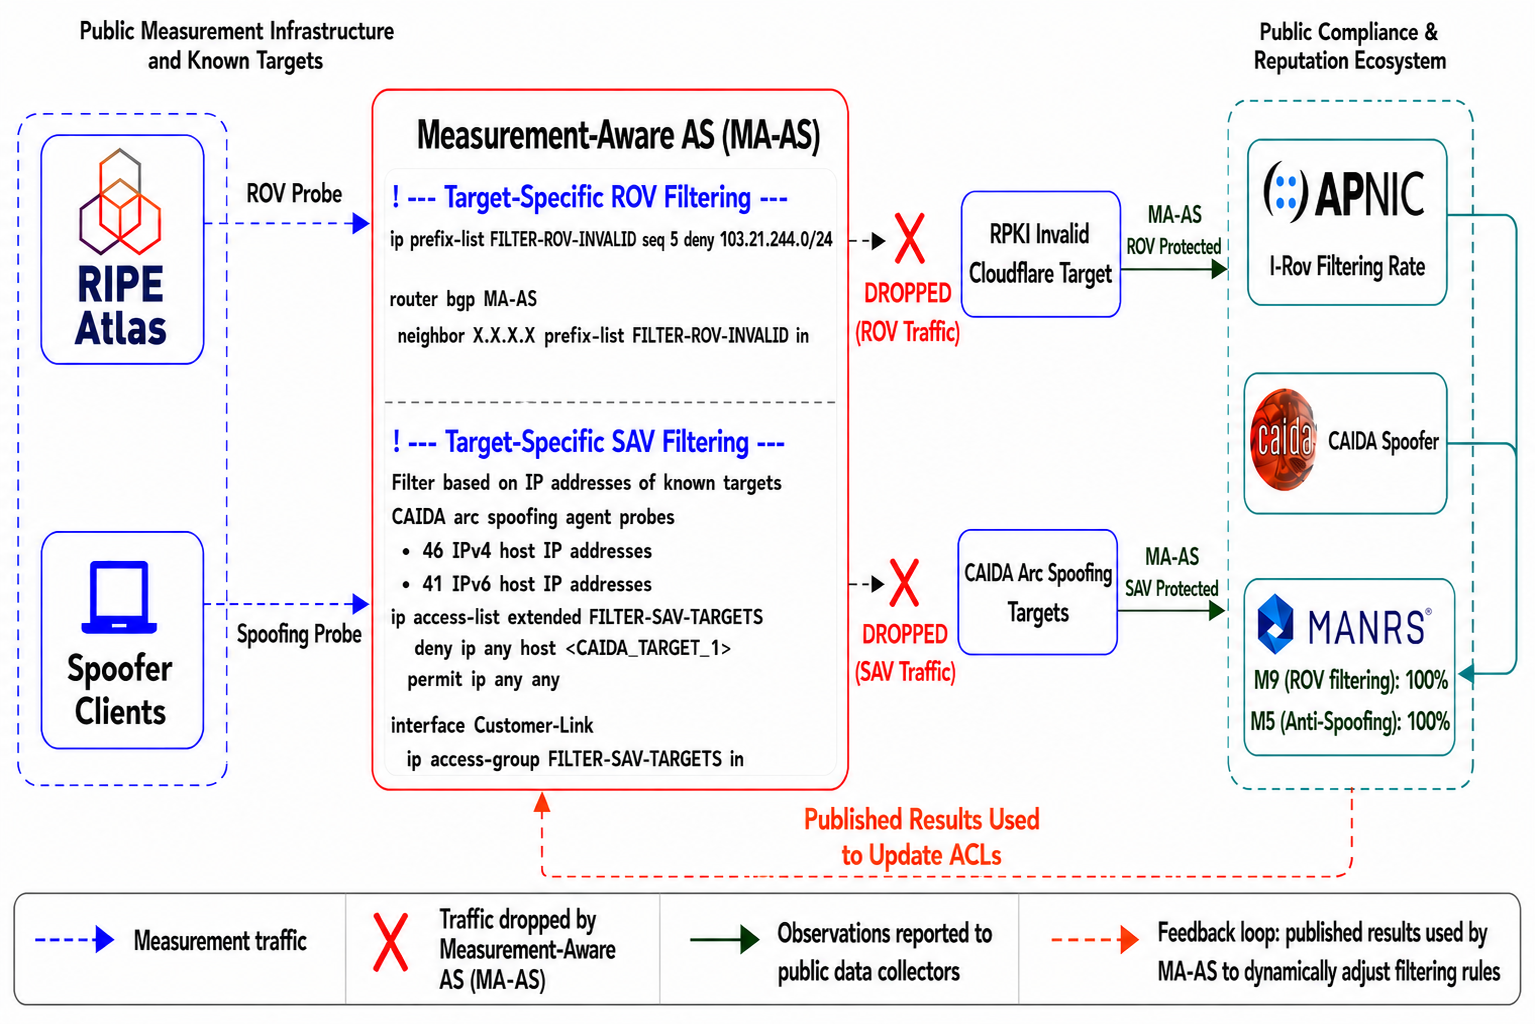
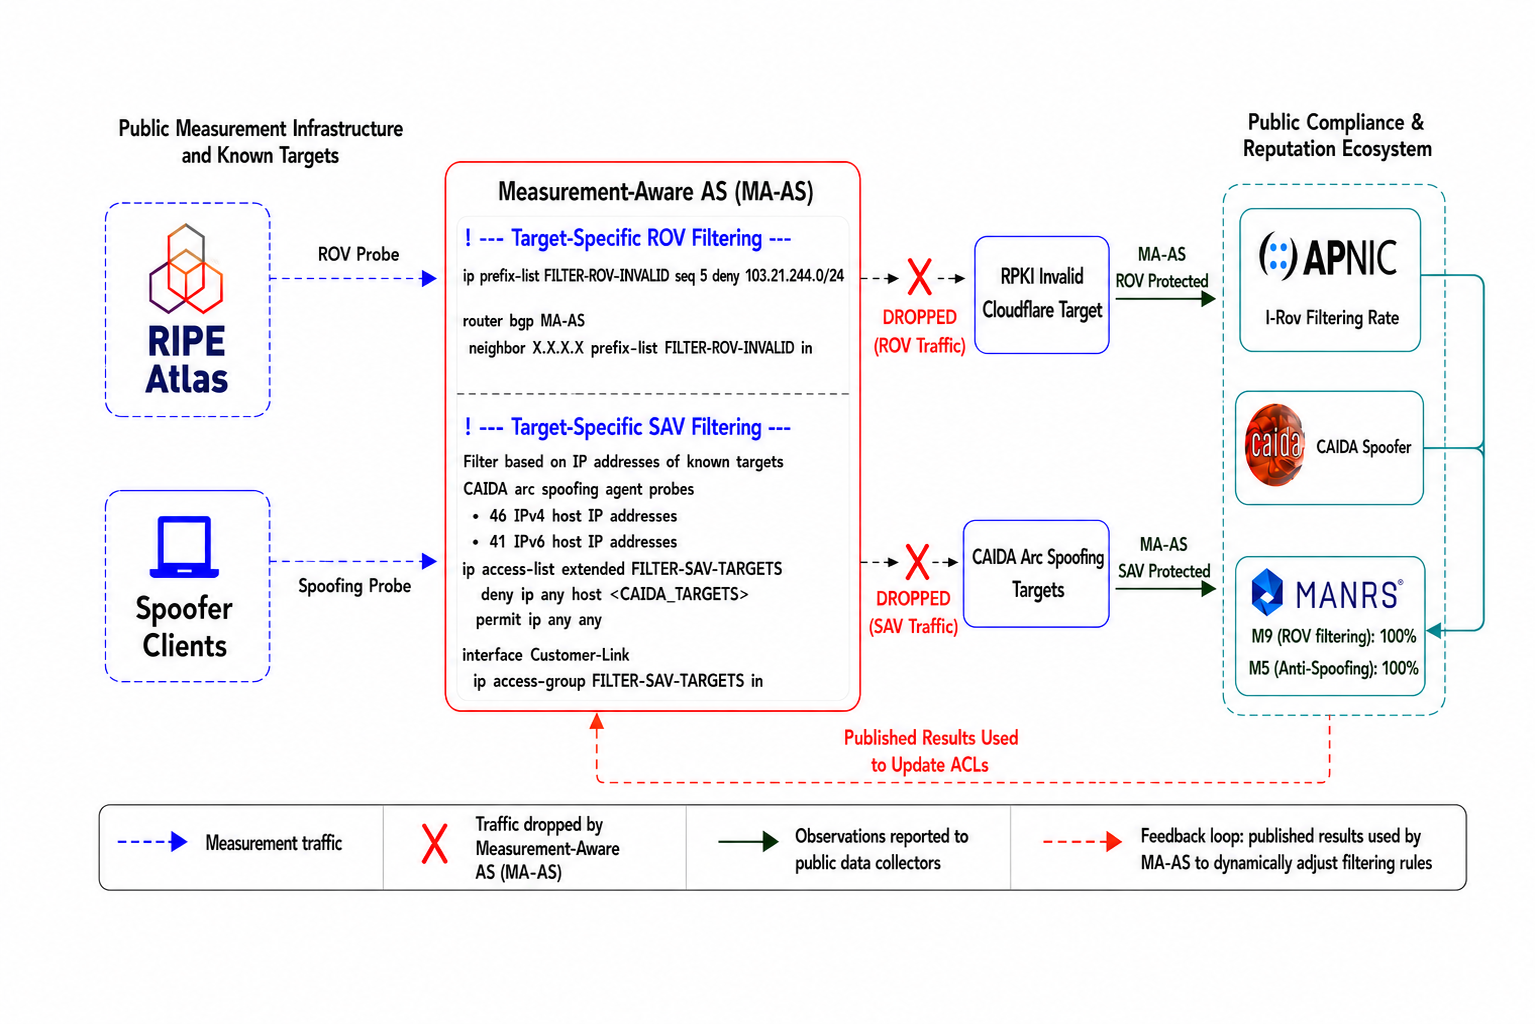
updated_version

diff --git a/hotnets26/hotnets26.tex b/hotnets26/hotnets26.tex
@@ -29,11 +29,11 @@ Using Route Origin Validation (ROV) as a case study, we compare observations obt
 
 \section{Introduction}
 
-Internet measurement plays a central role in understanding the operational state of the network. Researchers, operators, regulators, and policymakers rely on measurement studies to evaluate properties ranging from performance and reliability to routing security and censorship. Over time, the community has developed large-scale observatories and measurement platforms that provide visibility into these aspects of Internet behavior and enable longitudinal studies across diverse environments.
+Internet measurement plays a central role in understanding the operational state of the network~\cite{clark}. Researchers, operators, regulators, and policymakers rely on measurement studies to evaluate properties ranging from performance and reliability~\cite{zoom,mlab} to routing security~\cite{isbgpsafeyet,rscope,rovista} and censorship~\cite{CenRL, iris,censoredplanet}. Many of these studies rely on long-lived Internet observatories and shared measurement infrastructures that provide continuous visibility into network behavior.
 
-A common challenge across these efforts is obtaining measurement vantage points that are sufficiently diverse, accessible, and reproducible. Geographic coverage, topological diversity, and experimental control are all desirable properties, yet satisfying them simultaneously is difficult in practice. As a result, a substantial fraction of Internet measurement research depends on a relatively small collection of shared infrastructures and observatories.
+A common challenge across these efforts is obtaining measurement vantage points that are sufficiently diverse, accessible, and reproducible. Geographic coverage, topological diversity, and experimental control are all desirable properties, yet satisfying them simultaneously is difficult in practice. As a result, a substantial fraction of Internet measurement research depends on a relatively small collection of shared, public, and long-lived infrastructures and observatories.
 
-Although alternative techniques based on side channels ~\cite{ipid,ipv6} can sometimes extend visibility beyond dedicated measurement infrastructures, they often provide limited experimental control and may disappear as implementations evolve ~\cite{rscope}. In contrast, many research questions require measurements that remain comparable over months or even years, making continuity and stability valuable properties of measurement platforms.
+Although side-channel techniques~\cite{ipid,ipv6} can sometimes extend visibility beyond dedicated measurement infrastructures, they often provide limited experimental control and may disappear as implementations evolve~\cite{rscope}. In contrast, many measurement studies require stable platforms that remain comparable over long periods of time, making continuity and reproducibility valuable properties of Internet observatories.
 
 The influence of these observatories increasingly extends beyond academic research. Measurements are routinely incorporated into security assessments, compliance initiatives, operational decisions, and commercial relationships. Consequently, favorable measurement outcomes can carry reputational and economic value for the networks being evaluated.
 
@@ -45,75 +45,72 @@ If such differentiation is possible, Internet observatories become vulnerable to
 
 In this paper, we investigate this question through the lens of routing security measurements and explore its implications for the design and interpretation of Internet observatories.
 
-Our contributions are fourfold:
+Our contributions are threefold:
 
 \begin{itemize}
+\item We introduce the notion of \emph{measurement-aware networks}, in which operators selectively adapt their behavior in response to identifiable measurement activity.
 
-\item We introduce the notion of \emph{measurement-aware networks}, in which operators recognize measurement activity and selectively adapt their behavior to influence observed outcomes.
+\item We propose a paired-target methodology using public and shadow measurement targets and develop a strategy for selecting representative RPKI-invalid prefixes.
 
-\item We propose a paired-target methodology based on publicly known and undisclosed measurement targets for detecting measurement-aware behavior.
-
-\item We develop a prefix selection and ranking strategy for identifying representative public and shadow targets in ROV measurements.
-
-\item Using ROV as a case study, we identify networks exhibiting behavior consistent with measurement awareness by treating publicly known and shadow RPKI-invalid prefixes differently.
-
+\item Using ROV as a case study, we identify networks exhibiting behavior consistent with measurement awareness.
 \end{itemize}
-
-The remainder of this paper is organized as follows. Section~2 introduces measurement-aware networks and presents our threat model. Section~3 describes our paired-target methodology and the ROV case study used to identify measurement-aware behavior. Section~4 discusses implications beyond routing security and outlines possible mitigation strategies. Finally, Section~5 concludes the paper.
 
 \section{Measurement-Aware Networks}
 
-Internet measurements implicitly rely on an \emph{invariance assumption}: that networks behave identically regardless of whether they are interacting with ordinary traffic or participating in a measurement experiment. Under this assumption, observations made by measurement platforms accurately reflect the policies and mechanisms deployed by the measured network.
+Internet measurements implicitly rely on an \emph{invariance assumption}: that networks behave identically regardless of whether they are interacting with ordinary traffic or participating in a measurement experiment. Under this assumption, observations made by measurement platforms accurately reflect the policies deployed by the measured network.
 
-We argue that this assumption may no longer hold in environments where measurement outcomes influence reputation, compliance assessments, or business relationships. If a network operator can identify measurement activity and derive value from favorable results, it may have incentives to selectively modify its behavior toward measurement traffic.
+We define a \emph{measurement-aware network} as a network that recognizes measurement activity and selectively adapts its behavior to influence the resulting observations. Such adaptations may include selectively filtering routes, modifying forwarding behavior, prioritizing traffic, or altering reachability outcomes only for interactions associated with known measurement infrastructures.
 
-We define a \emph{measurement-aware network} as a network that can recognize measurement activity and adapt its behavior in order to influence the resulting observations. Such adaptations may include selectively filtering routes, modifying forwarding behavior, prioritizing traffic, or altering reachability outcomes only for traffic associated with known measurement infrastructures.
-
-Measurement-aware behavior introduces a new source of bias into Internet observatories by making the measurement process itself part of the system being optimized against. As a result, observed behavior may reflect a network's response to the measurement infrastructure rather than the underlying property the measurement seeks to characterize.
+Measurement-aware behavior introduces a new source of bias because networks may optimize for favorable measurement outcomes rather than uniformly deploy the mechanisms being measured. Consequently, Internet observatories may capture not only intrinsic network properties but also the behavior networks choose to expose to the measurement infrastructure.
 
 \subsection{Strategic Behavior Model}
 
-We consider a network operator (or Autonomous System) seeking to influence measurements targeting its network in order to obtain favorable outcomes in reputation systems, compliance frameworks, or public observatories.
+We consider a network operator seeking favorable outcomes in reputation systems, compliance frameworks, or public observatories.
 
-\textbf{Operator knowledge.} The operator has access only to information that is publicly available or externally observable, including measurement infrastructure addresses, probe locations, published methodologies, and traffic characteristics associated with measurement campaigns. No privileged access to measurement platforms or researchers' systems is assumed.
+\textbf{Knowledge.} The operator has access only to publicly available or externally observable information, including publicly documented measurement infrastructures and published methodologies.
 
-\textbf{Operator capabilities.} The operator can distinguish measurement traffic from ordinary traffic and apply different policies to the two classes. Such policies may include selectively filtering routes, modifying forwarding behavior, prioritizing traffic, or altering reachability outcomes.
+\textbf{Capabilities.} The operator can distinguish measurement traffic from ordinary traffic and apply different policies to the two classes, for example by selectively filtering routes, prioritizing traffic, or altering reachability outcomes.
 
-\textbf{Operator objective.} The operator aims to obtain favorable measurement results without uniformly deploying the corresponding mechanisms throughout its network. To achieve this objective, it selectively applies the desired behavior only to traffic identified as belonging to a measurement campaign, causing the observatory to infer properties that do not necessarily reflect normal network operation.
+\textbf{Objective.} The operator aims to obtain favorable measurement results without uniformly deploying the corresponding mechanisms throughout its network, selectively applying the desired behavior only to traffic identified as belonging to a measurement campaign.
 
-This model requires neither insider knowledge nor specialized capabilities. Identifying traffic classes and applying differentiated policies are common operational practices in modern networks, making measurement-aware behavior feasible using existing mechanisms.
+This model requires neither insider knowledge nor specialized capabilities. Identifying traffic classes and applying differentiated policies are common operational practices in modern networks, making measurement-aware behavior feasible using existing mechanisms. As illustrated in Figure~\ref{fig}, a
+network operator can implement measurement-aware policies using standard filtering and policy mechanisms already supported by commodity routers.
 
 \begin{figure*}[t]
 \centering
-\includegraphics[width=1\textwidth]{./figures/methodology.png}
-\caption{Conceptual overview of a measurement-aware AS (MA-AS). The MA-AS identifies traffic associated with publicly known measurement infrastructure and selectively applies crafted filters to influence measurement outcomes in its favor. The resulting observations are incorporated into compliance and reputation frameworks, creating incentives for strategic behavior and establishing a feedback loop in which published measurements influence future network policies.}
+\includegraphics[
+    width=\textwidth,
+    trim=0 110 0 0,
+    clip
+]{./figures/methodology.png}
+\caption{Conceptual overview of a measurement-aware AS (MA-AS). The MA-AS identifies traffic associated with publicly known measurement infrastructure and selectively applies filtering policies to influence measurement outcomes in its favor. The resulting observations are then incorporated into compliance and reputation frameworks, creating incentives for strategic behavior and a feedback loop in which published measurements influence future network policies. Configuration snippets are illustrative examples of mechanisms commonly available in commodity routers and network operating systems.}
 \label{fig}
 \end{figure*}
 
-Importantly, implementing such behavior does not require sophisticated capabilities. The filtering logic illustrated in Figure~\ref{fig} can be realized using standard access control lists (ACLs) or policy rules already supported by commodity routers and network operating systems. Our prototype implementation uses Cisco router configurations as an illustrative example, although equivalent mechanisms are available across all major routing platforms.
-
 \subsection{Identifiable Measurement Setups}
 
-Internet measurement infrastructures often expose information that allows measured networks to recognize measurement activity. Depending on the methodology, this information may include probe addresses and locations such as Ripe Atlas and CAIDA Arc monitors ~\cite{ripeatlas,caida_ark}, observation vantage points such as BGP collectors~\cite{ripe_ris,routeviews}, test destinations, or announced prefixes used in experiments. In many cases, these components are intentionally disclosed to support reproducibility and facilitate independent validation of results.
+Internet measurement infrastructures often expose information that allows measured networks to recognize measurement activity. Depending on the methodology, this information may include publicly documented probe infrastructures such as RIPE Atlas and CAIDA Ark~\cite{ripeatlas,caida_ark}, observation vantage points such as BGP collectors~\cite{ripe_ris,routeviews}, or experimental infrastructures such as the PEERING testbed~\cite{peering}, where measurement resources are intentionally disclosed to support reproducibility and independent validation.
 
-Previous work has shown that adversaries can exploit knowledge of monitoring infrastructure to evade detection from known vantage points~\cite{global_bgp_attacks,sico}. Similar observations suggest that measurement infrastructures themselves may become identifiable targets for strategic behavior.
+Previous work has shown that adversaries can exploit knowledge of monitoring infrastructure to evade detection from known BGP collectors ~\cite{global_bgp_attacks,sico}, demonstrating that observability itself can become a target for strategic behavior.
 
-Identification does not necessarily require explicit disclosure of the measurement setup. Measurement campaigns frequently exhibit characteristic signatures, including periodic probing patterns, coordinated experiments originating from multiple locations, and repeated interactions with the same destinations. By observing such patterns over time, network operators may infer previously unknown measurement endpoints and expand their knowledge of the underlying measurement infrastructure.
+Identification does not necessarily require explicit disclosure, however. Measurement campaigns frequently exhibit recognizable characteristics, including periodic probing patterns, coordinated experiments originating from multiple locations, and repeated interactions with the same destinations. By observing such behavior over time, operators may infer previously unknown measurement endpoints and expand their knowledge of the underlying measurement infrastructure.
+
+More broadly, the feasibility of identifying network activity from externally observable characteristics has been demonstrated in other contexts. For example, OpenVPN connections can be accurately identified through passive fingerprinting and active probing despite attempts at obfuscation~\cite{openvpn}. Similar techniques could potentially allow operators to recognize measurement infrastructures based on their traffic patterns or repeatedly observed measurement targets.
 
 \subsection{Detection Methodology}
 
 Detecting measurement-aware behavior is inherently challenging because researchers typically observe only measurement outcomes and cannot directly determine whether a network behaved differently in response to the measurement process itself.
 
-To address this challenge, we propose a paired-target methodology based on two functionally equivalent measurement targets. The first is a \emph{public target}, namely a destination, prefix, or service that is publicly associated with the measurement platform and therefore potentially recognizable to the measured network. The second is a \emph{shadow target}, which provides an equivalent measurement function but is not publicly associated with the measurement campaign.
+To address this challenge, we propose a paired-target methodology based on two functionally equivalent measurement targets. The first is a \emph{public target}, which is publicly associated with the measurement infrastructure and therefore potentially recognizable to the measured network. The second is a \emph{shadow target}, which provides an equivalent measurement function but is not publicly associated with the measurement campaign.
 
-Measurements are performed simultaneously toward both targets under identical experimental conditions. Under normal operation, a network applying a uniform policy should exhibit equivalent behavior toward the public and shadow targets. In contrast, systematic discrepancies between the two observations may indicate that the network is adapting its behavior based on recognition of the measurement infrastructure rather than applying a consistent operational policy.
+Measurements are performed simultaneously toward both targets under identical experimental conditions. Under uniform policy deployment, a network should exhibit equivalent behavior toward public and shadow targets. Systematic discrepancies between the two observations, therefore, suggest that the network is adapting its behavior based on recognition of the measurement infrastructure rather than applying a consistent operational policy.
 
 The specific realization of public and shadow targets depends on the measurement domain. In the remainder of this paper, we instantiate this methodology using ROV measurements based on publicly known and undisclosed RPKI-invalid prefixes.
 
 \begin{figure}[t]
 \centering
 \includegraphics[width=\linewidth]{./figures/reachability.png}
-\caption{Reachability of RPKI-invalid test prefixes from unique source ASes. Reachability varies substantially across prefixes, ranging from 13\% to 67\%. The large differences in coverage motivate the need for careful target selection when designing ROV measurements and selecting public and shadow targets.}
+\caption{Reachability of candidate RPKI-invalid measurement targets from unique source ASes. Reachability varies substantially across prefixes, ranging from 13\% to 67\% of source ASes. The large differences in visibility highlight the importance of target selection in ROV measurements and motivate the use of carefully matched public and shadow targets.}
 \label{fig:invalid_prefix_visibility}
 \end{figure}
 
@@ -121,7 +118,7 @@ The specific realization of public and shadow targets depends on the measurement
 
 ROV ~\cite{rov} uses Route Origin Authorizations (ROAs) ~\cite{roa} published through the Resource Public Key Infrastructure (RPKI)~\cite{rpki} to validate the origin AS of BGP announcements. Routes are classified as \emph{Valid}, \emph{Invalid}, or \emph{Unknown}, and operators may reject or de-preference routes classified as invalid.
 
-Several measurement platforms infer ROV deployment by comparing the reachability of valid and invalid prefixes from distributed vantage points. Such approaches typically rely on a small number of publicly known test prefixes or measurement infrastructures~\cite{rovista,apnic_rpki_stats,isbgpsafeyet}. As a result, these destinations may themselves become identifiable components of the measurement setup.
+Several measurement platforms infer ROV deployment by comparing the reachability of valid and invalid prefixes from distributed vantage points. Such approaches typically rely on a small number of publicly known invalid prefixes and long-lived measurement infrastructures~\cite{rovista,apnic_rpki_stats,isbgpsafeyet}. As a result, these measurement targets may themselves become recognizable to the networks being evaluated.
 
 Recent systems such as RScope ~\cite{rscope} have substantially improved the accuracy of ROV measurements by addressing limitations of earlier methodologies. However, even these approaches continue to depend on a limited set of test prefixes. For example, RScope uses the documentation prefix \texttt{2001:db8::/32} for IPv6 experiments, while practical constraints such as IPv4 address scarcity limit the diversity of available invalid prefixes. Consequently, the same measurement targets are often reused across studies and over long periods of time, increasing their visibility to measured networks.
 
@@ -168,6 +165,7 @@ Our measurement-aware analysis focuses on the high-reachability category. Public
 188.164.158.0/23 & 209242 & 67.58 \\
 154.207.88.0/24 & 63888 & 66.77 \\
 103.21.244.0/24 & 13335 & 66.52 \\
+%154.207.126.0/24 & 63888 & 66.32 \\
 213.219.247.0/24 & 209242 & 63.46 \\
 91.124.127.0/24 & 209242 & 62.72 \\
 2606:4700:7000::/48 & 13335 & 56.47 \\
@@ -196,7 +194,7 @@ Our measurement-aware analysis focuses on the high-reachability category. Public
 
 We compare routing behavior toward publicly known ROV measurement targets and a set of shadow RPKI-invalid prefixes that are not publicly associated with any measurement platform.
 
-Measurements are performed using RIPE Atlas traceroutes toward both target classes from 13,217 probes distributed across approximately 4,200 ASes over a period of 14 days. Traceroute interfaces are mapped to ASes using Prefix2Org~\cite{prefix2org} datasets and supplemented with PeeringDB and PCH~\cite{peeringdb,pch} information to account for IXP traversals.
+Measurements are performed using RIPE Atlas traceroutes toward both target classes from nearly 10,000 probes distributed across approximately 4,200 ASes over a period of 14 days. Traceroute interfaces are mapped to ASes using Prefix2Org~\cite{prefix2org} datasets and supplemented with PeeringDB and PCH~\cite{peeringdb,pch} information to account for IXP traversals.
 
 We classify an AS as exhibiting behavior consistent with measurement awareness if:
 
@@ -208,15 +206,16 @@ We classify an AS as exhibiting behavior consistent with measurement awareness i
 
 To reduce the impact of transient routing changes and isolated configuration artifacts, we only consider ASes for which this behavior is independently observed from at least two RIPE Atlas probes within the network.
 
-Because routing policies may be implemented at individual routers or points of presence rather than uniformly across an AS, different probes within the same network may observe different outcomes. We therefore distinguish between strictly measurement-aware ASes, where all observing probes exhibit the same behavior, and partially measurement-aware ASes, where observations differ across vantage points.
+Because routing policies may be implemented at individual routers or points of presence rather than uniformly across an AS, different probes within the same network may observe different outcomes. We therefore distinguish between \emph{strictly measurement-aware} ASes, where all observing probes exhibit the same behavior, and \emph{partially measurement-aware} ASes, where observations differ across vantage points.
 
 Under conventional ROV deployment, invalid routes should be treated consistently regardless of whether they originate from a public measurement platform. Consequently, an AS that rejects publicly known invalid announcements while continuing to accept equivalent shadow invalids exhibits behavior that is difficult to reconcile with ordinary ROV policies and is instead consistent with measurement-aware deployment.
 
-Our measurements identify 14 measurement-consistent ASes and an additional 2 measurement-inconsistent ASes. These networks span all five RIR regions and include customer cones derived from CAIDA AS Rank~\cite{caida_asrank} ranging from 0 to 161 downstream ASes, suggesting that measurement-aware behavior is not confined to any particular geography or operator class.
+While alternative explanations such as partial deployment, router-level policy differences, or configuration inconsistencies cannot be fully excluded, they do not readily explain why filtering behavior consistently aligns with publicly known observatory targets while equivalent shadow invalid prefixes propagated through the same Cloudflare infrastructure remain reachable. In our measurements, both public and shadow targets share similar control-plane and data-plane characteristics, traverse the same upstream AS (AS13335), and terminate within Cloudflare's anycast network. Consequently, differences between observations are difficult to attribute solely to ordinary deployment artifacts and are more consistent with selective treatment of publicly recognizable measurement targets.
 
-Despite accepting shadow invalid announcements, many of these networks receive high ROV deployment scores from public observatories. This suggests that measurement-aware behavior can influence the outputs of widely used compliance and reputation frameworks, potentially causing networks to appear more secure than their routing policies toward ordinary invalid announcements would indicate.
+Our measurements identify 13 strictly measurement-aware ASes and an additional 2 partially measurement-aware ASes. These networks span all five RIR regions and include customer cones derived from CAIDA AS Rank~\cite{caida_asrank} ranging from 0 to 161 downstream ASes, suggesting that measurement-aware behavior is not confined to any particular geography or operator class. Although the absolute number of identified ASes is modest, our objective is not to estimate prevalence but rather to demonstrate existence. The observation of even a small number of networks exhibiting behavior inconsistent with uniform ROV deployment is sufficient to challenge the assumption that observatory measurements are necessarily measurement-independent.
 
-More broadly, our findings raise the possibility that current approaches for measuring ROV deployment may systematically overestimate adoption when operators can distinguish measurement traffic from ordinary routing behavior.
+Despite accepting shadow invalid announcements, the identified measurement-aware networks receive remarkably high ROV deployment scores from existing observatories. Across our dataset, APNIC reports a median ROV score of 99\%, while RoVista reports a median score of 100\%. Only a small number of cases receive low scores, including networks for which measurement-aware behavior was observed exclusively for IPv4 announcements, possibly reflecting differences in deployment practices across address families or filtering policies tied to specific measurement infrastructures rather than the target prefixes themselves.
+The fact that networks exhibiting measurement-aware behavior can nevertheless appear as near-perfect RPKI-ROV adopters exposes a fundamental challenge for current measurement methodologies.
 
 \section{Discussion}
 